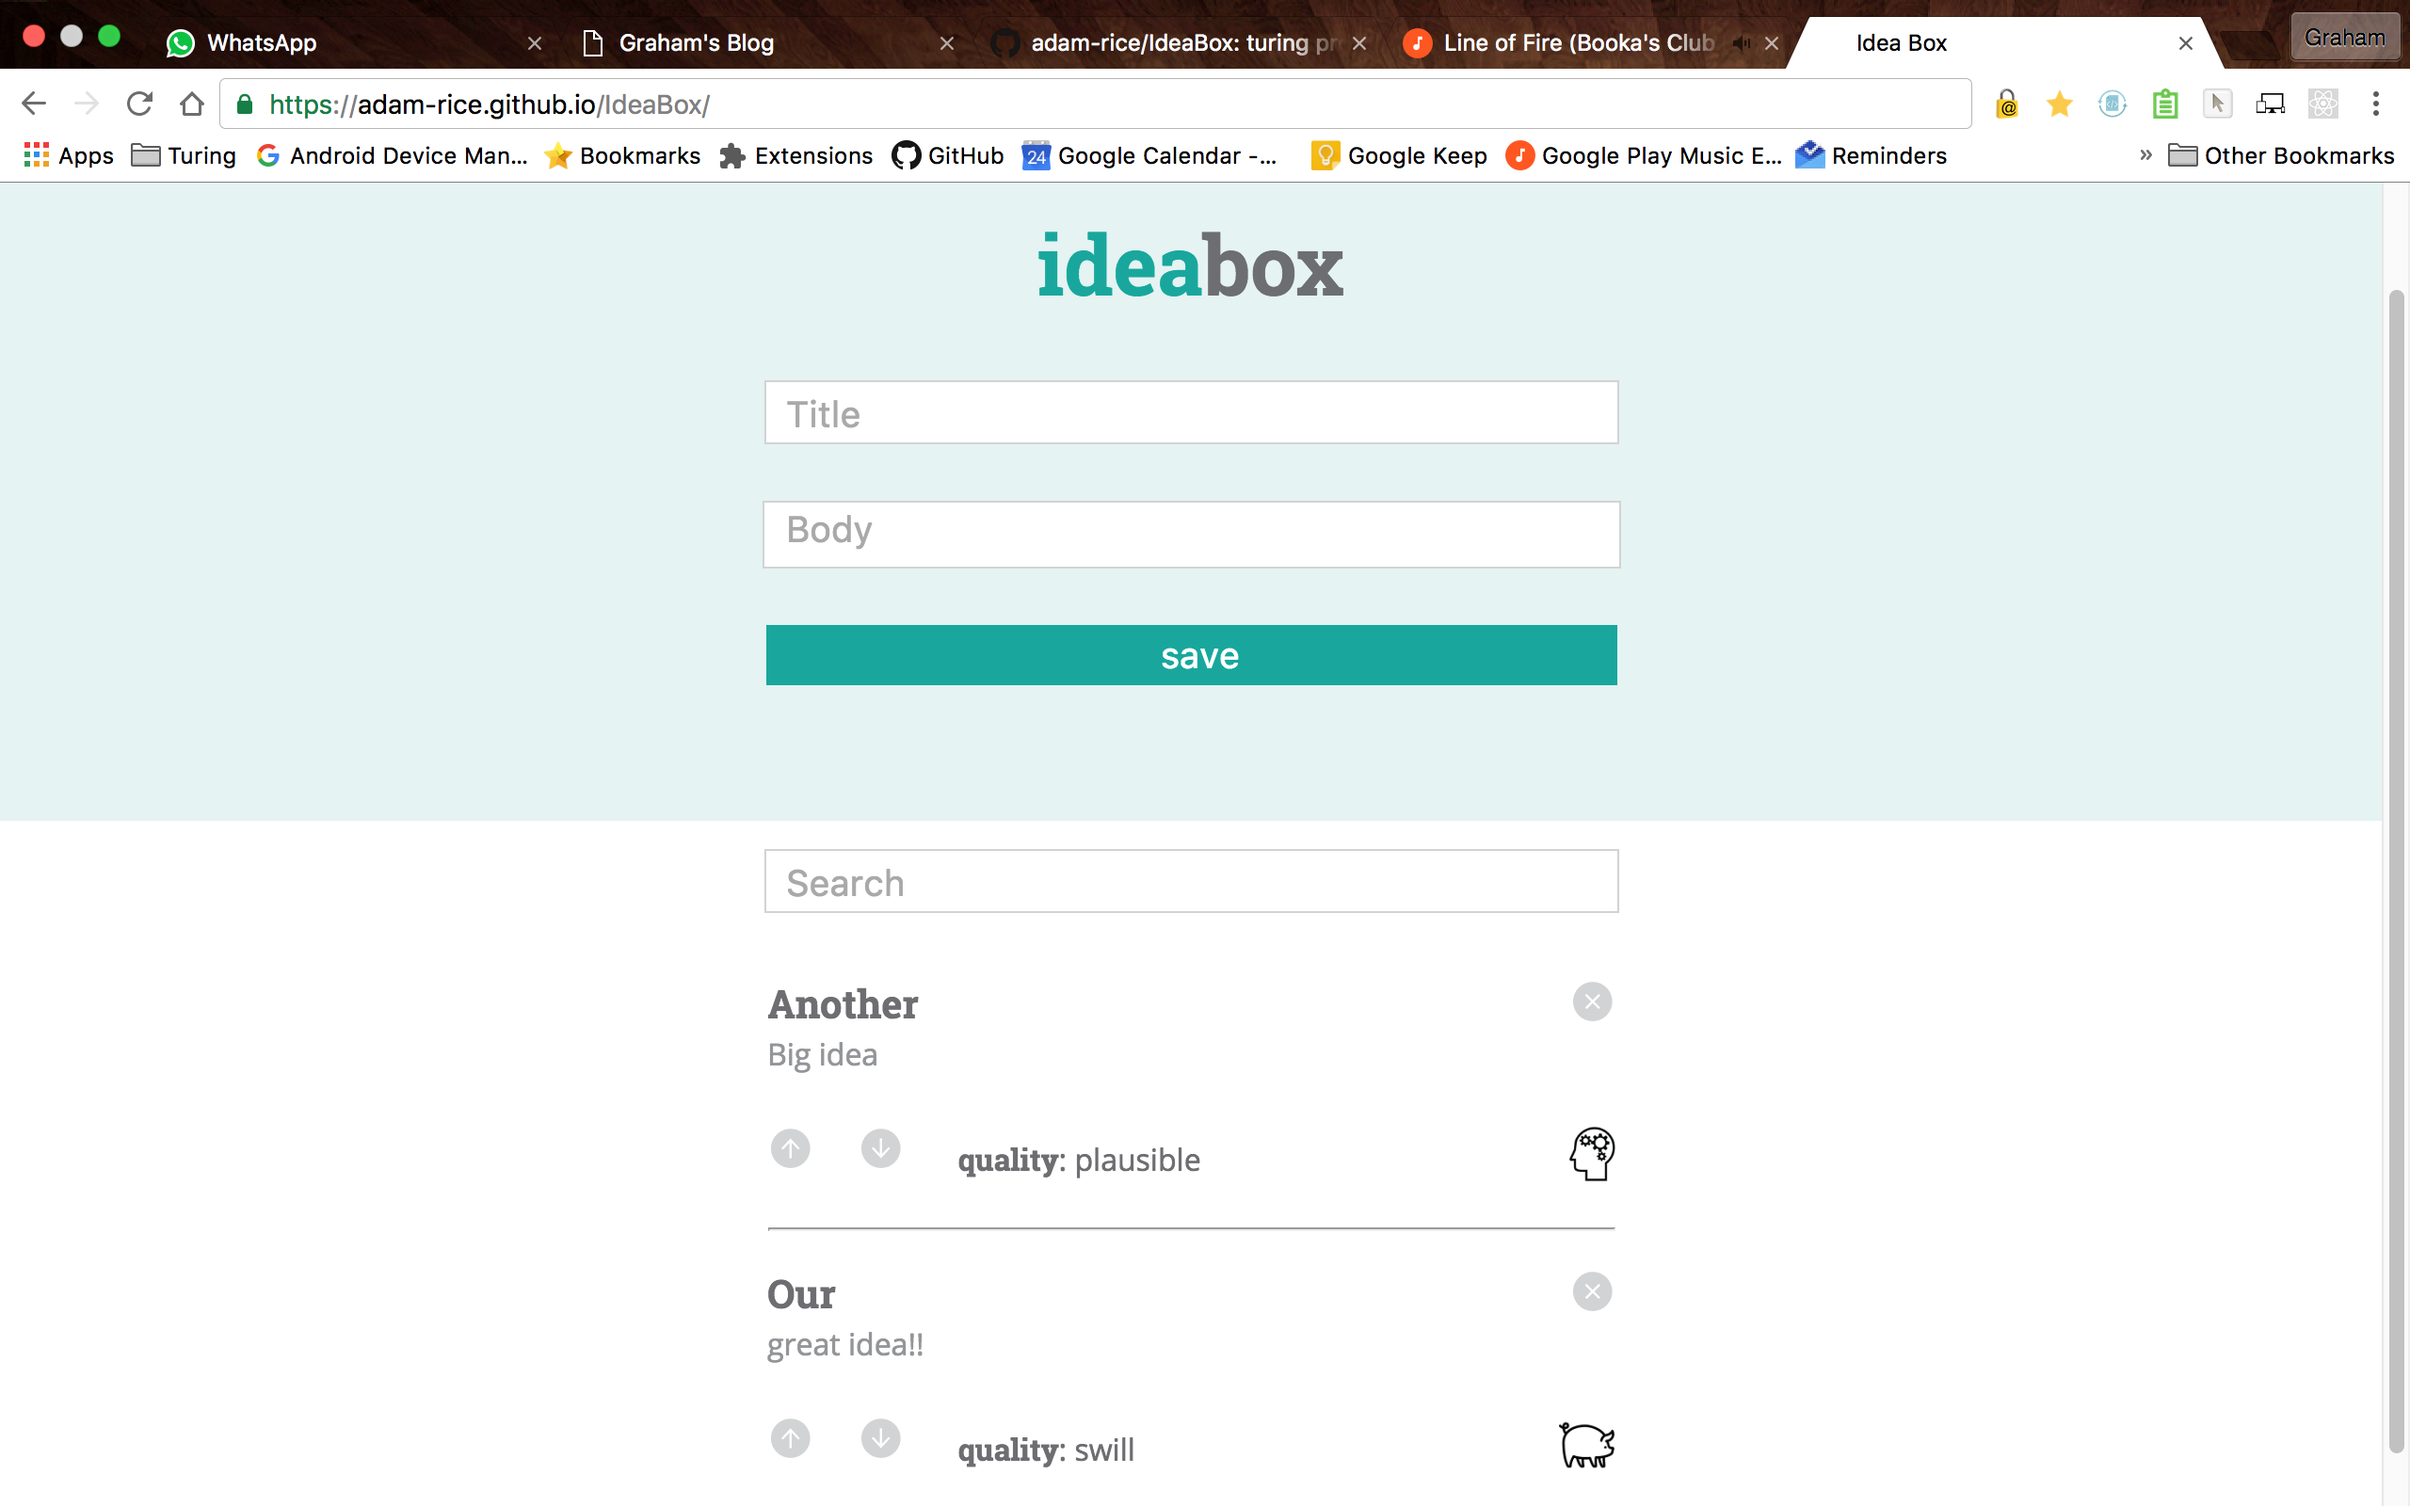
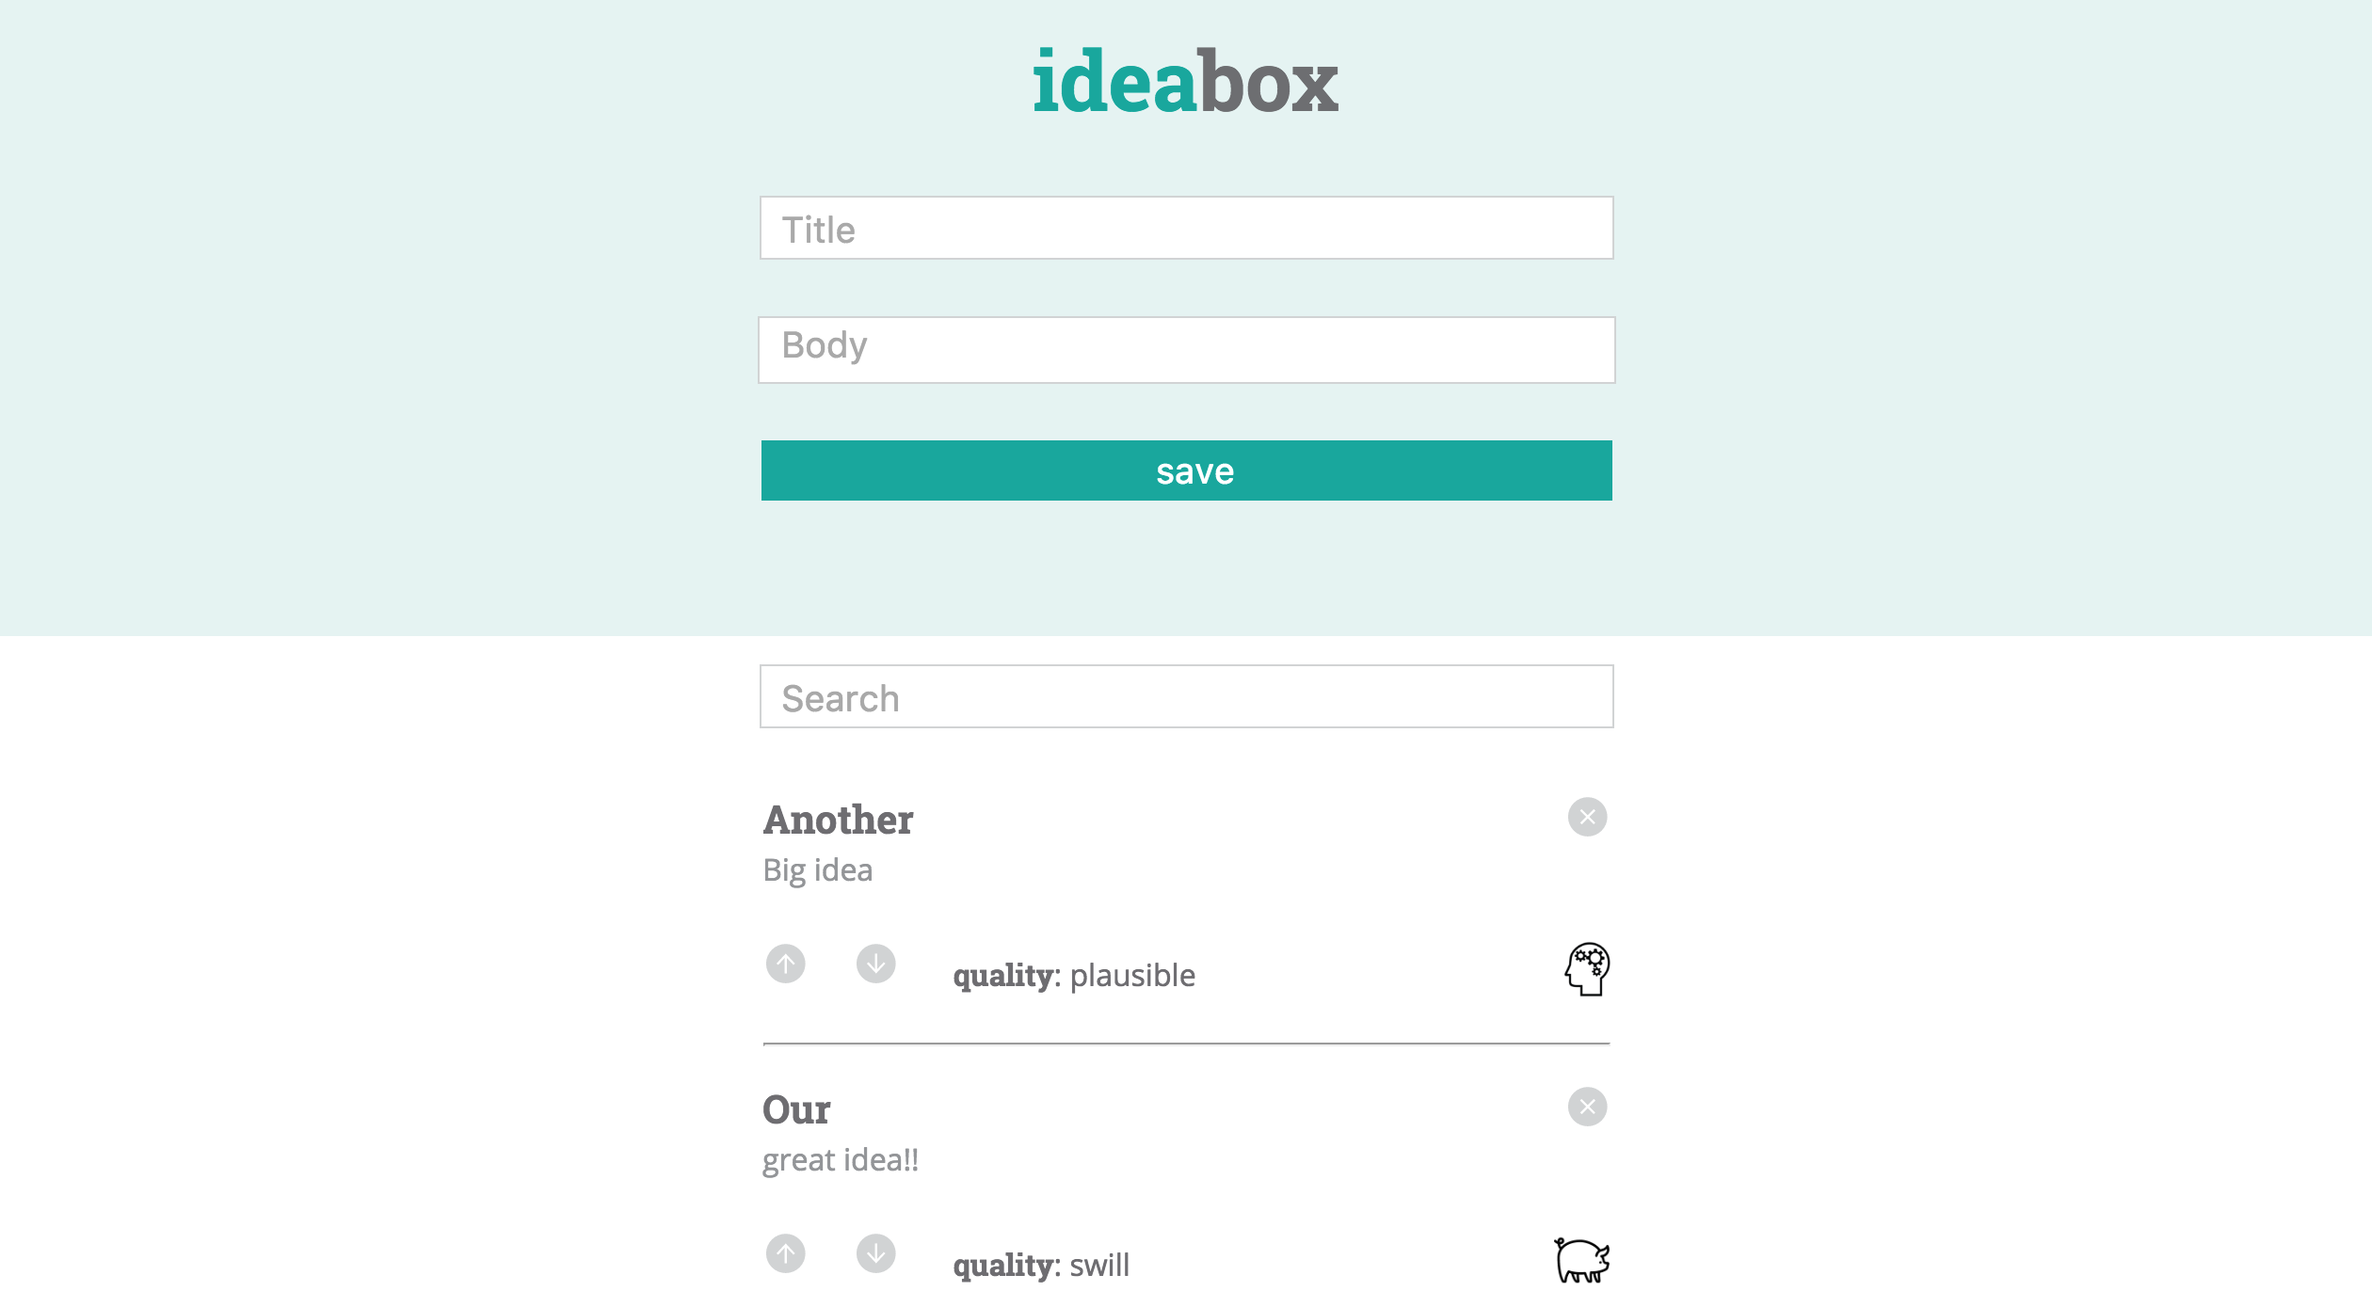
wrote first para of new entry

diff --git a/idea-box-09-25-16.html b/idea-box-09-25-16.html
@@ -30,8 +30,8 @@
 		<div class="template">
 			<h2>Idea Box</h2>
 			<p class="date"> Posted on September 25, 2016</p>
-			<img src="images/headshot.jpg" alt="My photo">
-			<p>Lorem ipsum dolor sit amet, consectetur adipisicing elit, sed do eiusmod tempor incididunt ut labore et dolore magna aliqua. Ut enim ad minim veniam, quis nostrud exercitation ullamco laboris nisi ut aliquip ex ea commodo consequat. Duis aute irure dolor in reprehenderit in voluptate velit esse cillum dolore eu fugiat nulla pariatur. Excepteur sint occaecat cupidatat non proident, sunt in culpa qui officia deserunt mollit anim id est laborum.</p><br><br>
+			<img src="images/idea-box-screen.png" alt="Idea Box screenshot.">
+			<p>So I've been a bit sluggish on blogging...two projects back to back will do that do you. I'm writing an update now on the first of these projects, known as "Idea Box, that I completed with Adam Rice, a fellow student in my cohort. Idea Box is an application that seems simple on the surface, but its execution involved many complex moving parts. The concept is as follows: the user enters in a title and body of an idea, which then both appear in separate lines at the bottom of the application.</p><br><br>
 		</div>
 	</section>
 </body>
